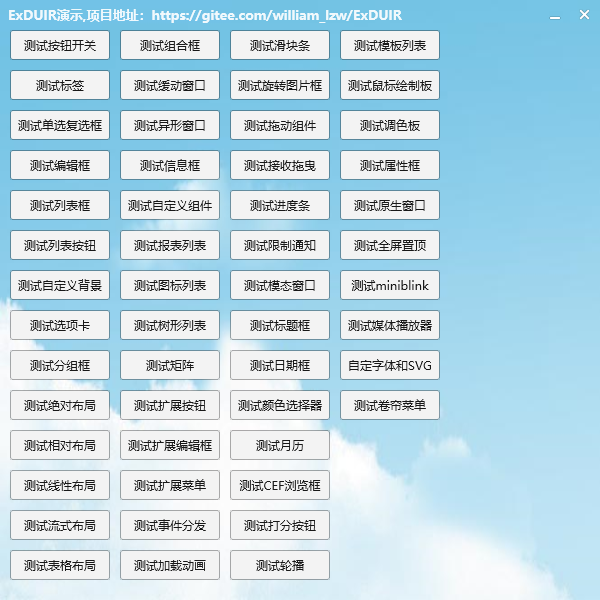
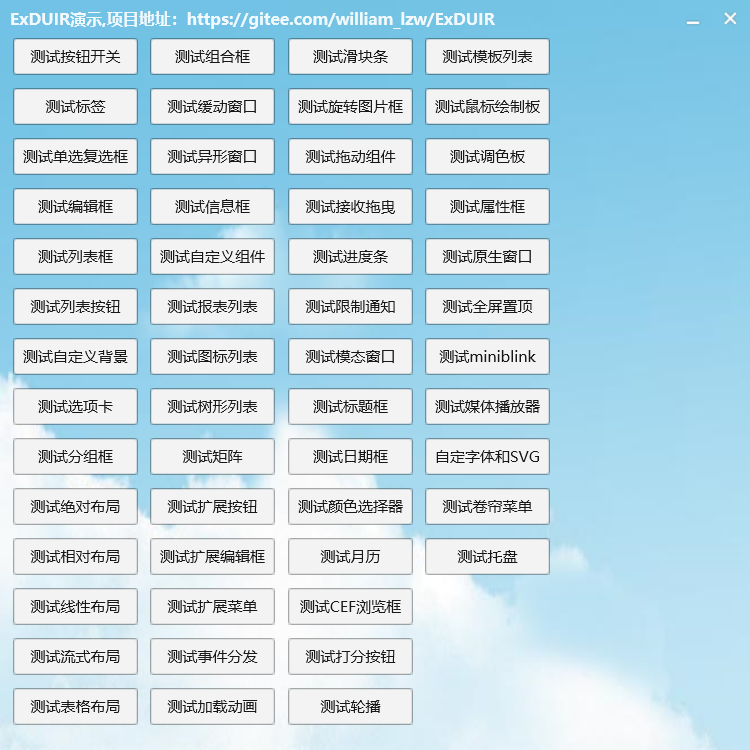
update

diff --git a/README.md b/README.md
@@ -166,5 +166,8 @@ win10+， win7 需要安装KB2670838补丁
 ### rollmenu
 ![image](demo_image/demo_rollmenu.png)
 
+### trayicon
+![image](demo_image/demo_trayicon.png)
+
 ### login demo
 ![image](demo_image/demo_login.png)

diff --git a/README_EN.md b/README_EN.md
@@ -169,5 +169,8 @@ win10+, win7 need install KB2670838 patch
 ### rollmenu
 ![image](demo_image/demo_rollmenu.png)
 
+### trayicon
+![image](demo_image/demo_trayicon.png)
+
 ### login demo
 ![image](demo_image/demo_login.png)
